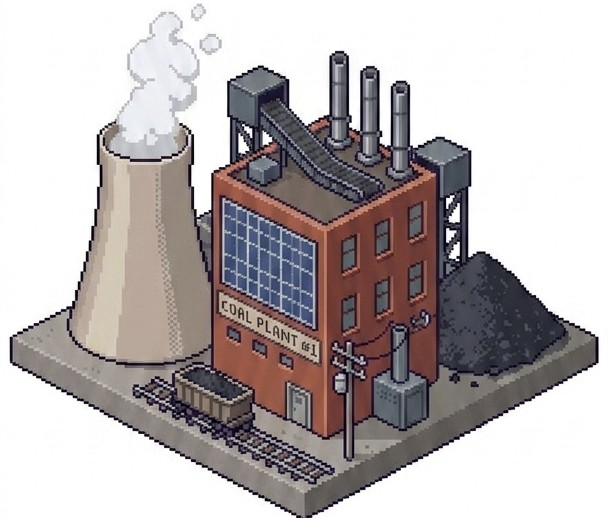
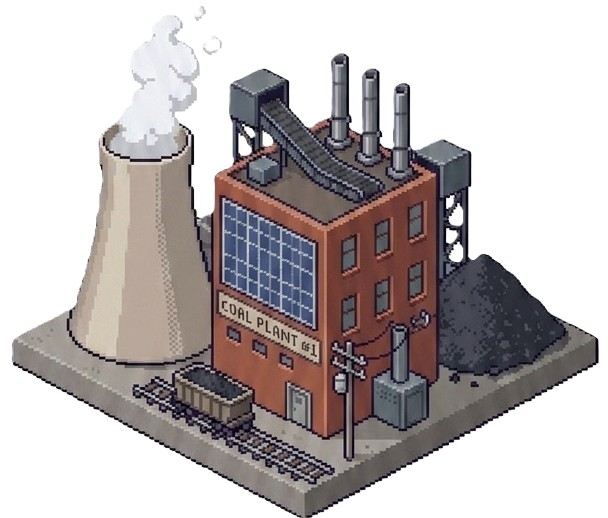
Refine Coal Plant: High-threshold alpha cleaning and grounded alignment

diff --git a/core/level0/level0_main.py b/core/level0/level0_main.py
@@ -91,8 +91,8 @@ def run(screen, clock, fonts, save_data=None):
             target_hc = 200 # Plants are substantial but not as tall as turbines
             sc = target_hc / hc
             scaled_coal = pygame.transform.smoothscale(raw_coal, (int(wc * sc), target_hc))
-            # Use surgical cleaning with a conservative threshold for the JPG asset
-            SPRITES[6] = clean_white_background(scaled_coal, threshold=15)
+            # Re-applying robust cleaning with a high threshold for JPG noise
+            SPRITES[6] = clean_white_background(scaled_coal, threshold=45)
         except Exception as e:
             print(f"Warning: Coal plant asset load failed: {e}")
 
@@ -487,7 +487,7 @@ def run(screen, clock, fonts, save_data=None):
                 offset_y = 0
                 if b_id == 4: offset_y = 60 # Float significantly higher above surface
                 if b_id == 5: offset_y = 320 # Massive elevation for monumental turbines
-                if b_id == 6: offset_y = 10 # Grounded on the surface
+                if b_id == 6: offset_y = 80 # Grounded industrial profile
                 
                 # Dynamic frame selection for animated sprites
                 draw_sprite = sprite
